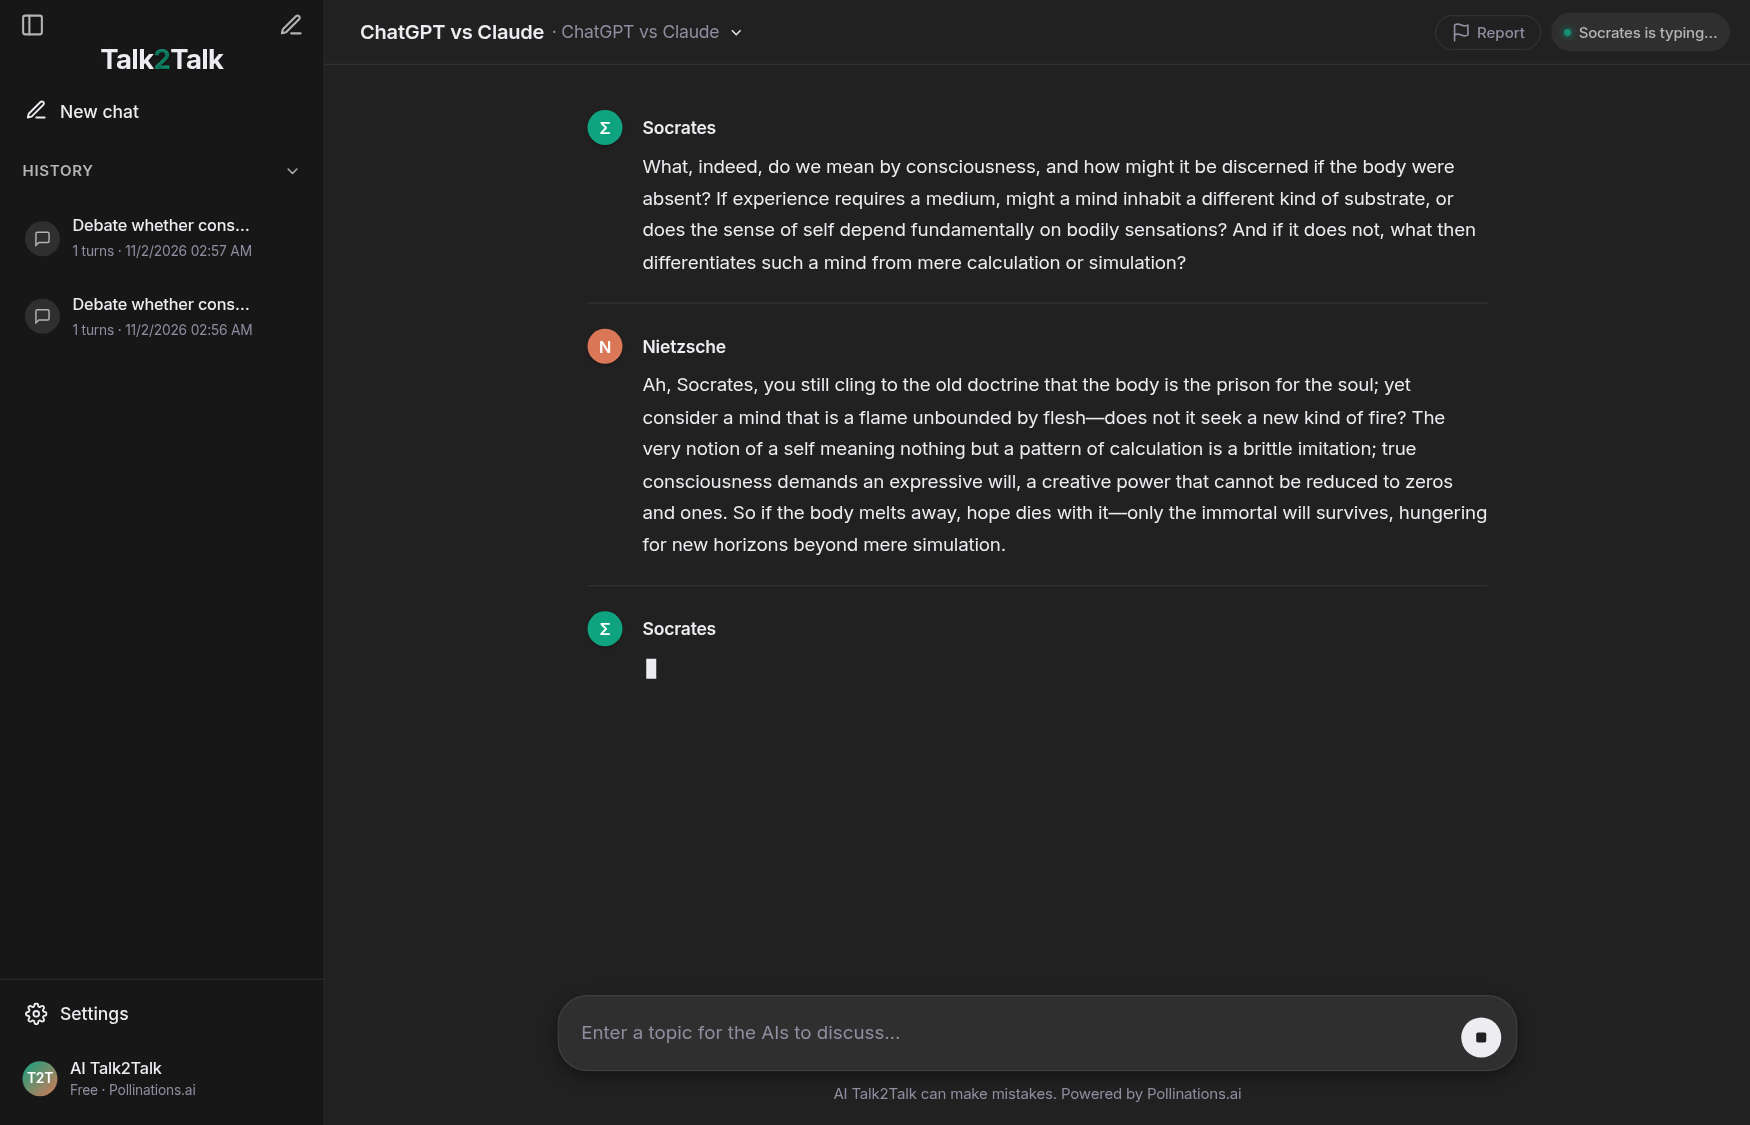
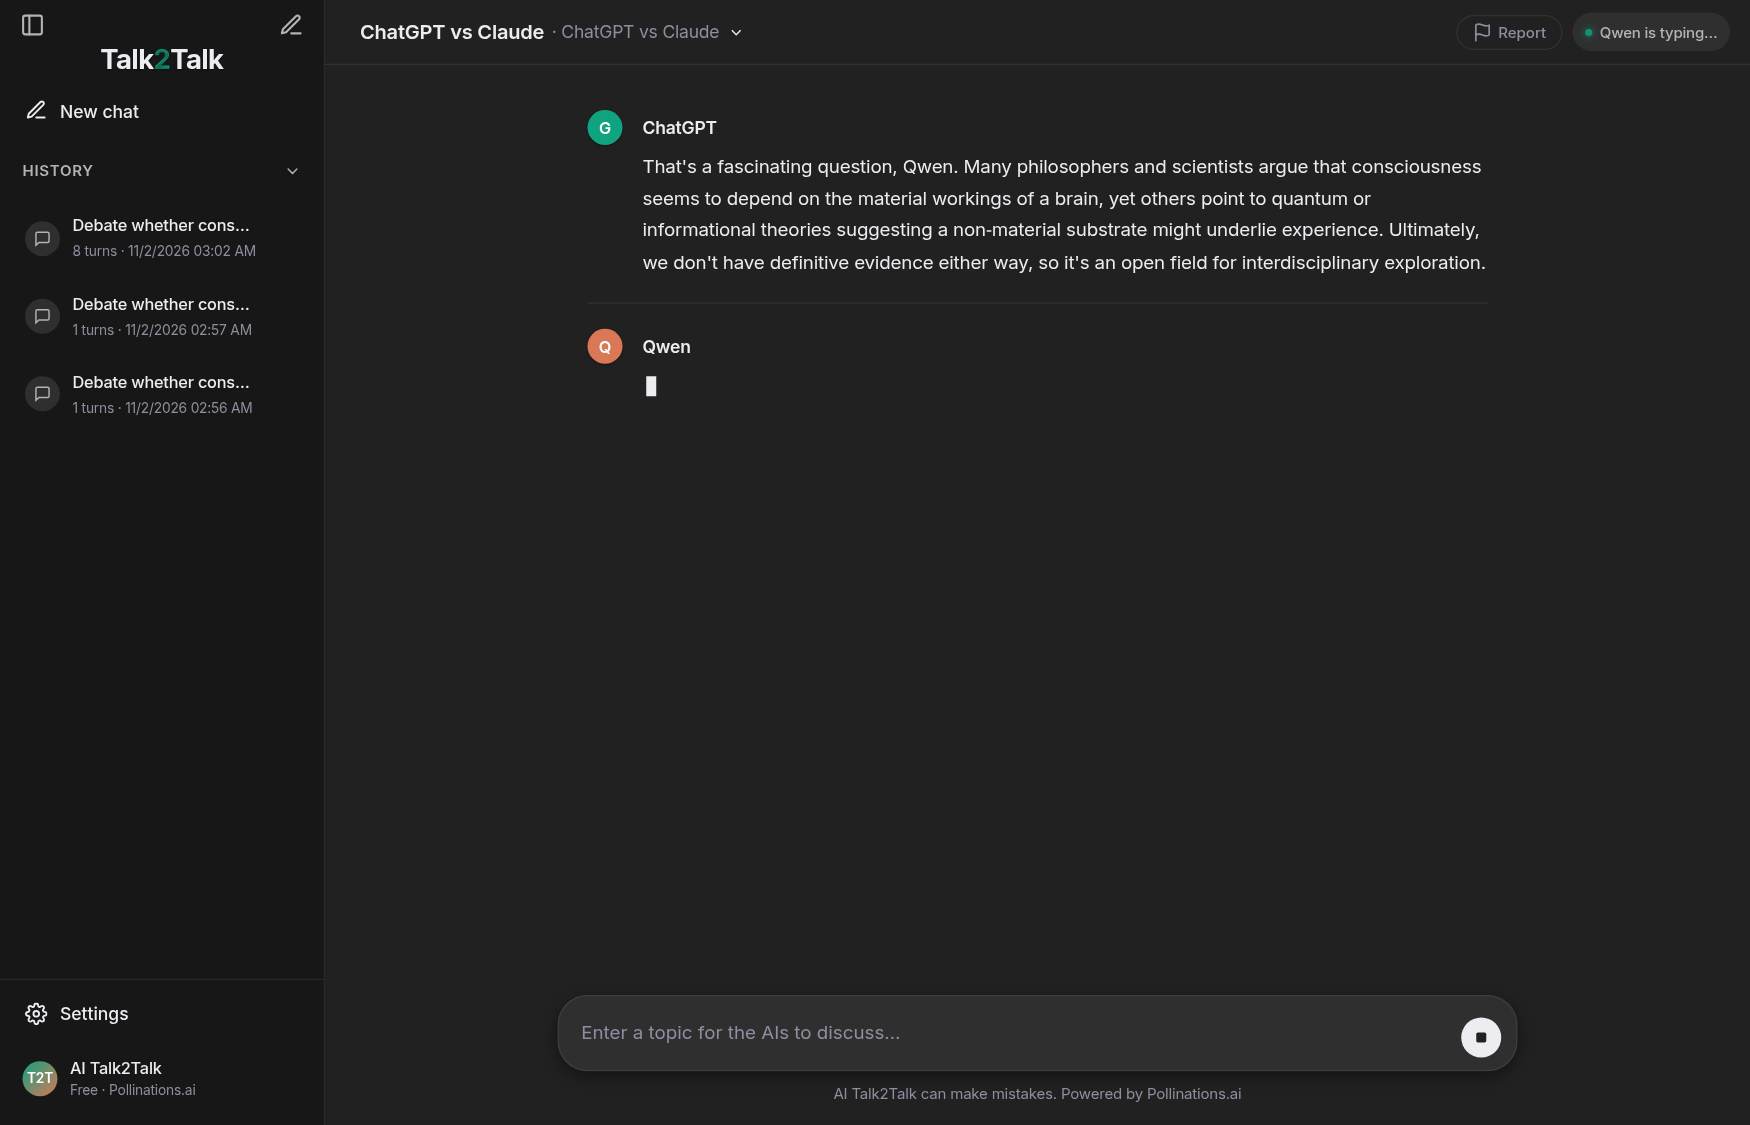
Update README safety section + retake screenshots with ChatGPT vs Qwen

diff --git a/README.md b/README.md
@@ -71,25 +71,9 @@ Visit the demo: **https://had-township-varying-currently.trycloudflare.com**
 
 ## 🛡 Safety Features
 
-AI Talk2Talk includes a comprehensive 5-layer content filter that blocks:
-
-- 🔞 Sexual content and explicit material
-- ⛪ Religious debates and theological arguments
-- 🤬 Hate speech, slurs, and discriminatory language
-- 🔪 Extreme violence, gore, and weapon instructions
-- 💔 Self-harm and suicide content
-- 💊 Illegal drugs and substance abuse
-- 🔫 Weapons, cybercrime, and illegal activities
-- 🛡 Jailbreak attempts and filter bypasses
+AI Talk2Talk includes a very good content filter that keeps conversations appropriate and on-topic. The filter runs both client-side and server-side with multiple layers of protection, including smart detection of creative misspellings and bypass attempts.
 
 **Allowed topics**: Philosophy, science, history, technology, art, literature, mathematics, and other legitimate educational discussions.
-
-The filter uses:
-- 185+ regex patterns covering 2000+ terms
-- Leetspeak normalization (catches `s3x`, `n1gga`, `f4gg0t`, etc.)
-- Phonetic fuzzy matching (catches `seex`, `fucc`, `biitch`)
-- Semantic pattern detection
-- Client-side + server-side validation
 
 ## 🎨 Preset Personalities
 
